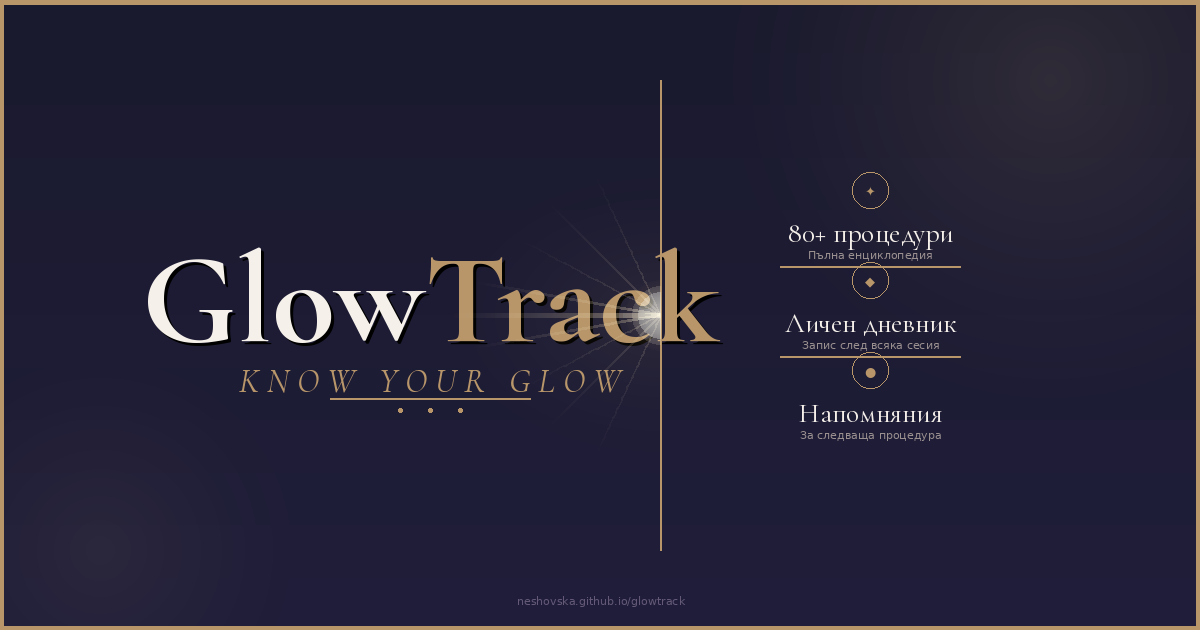
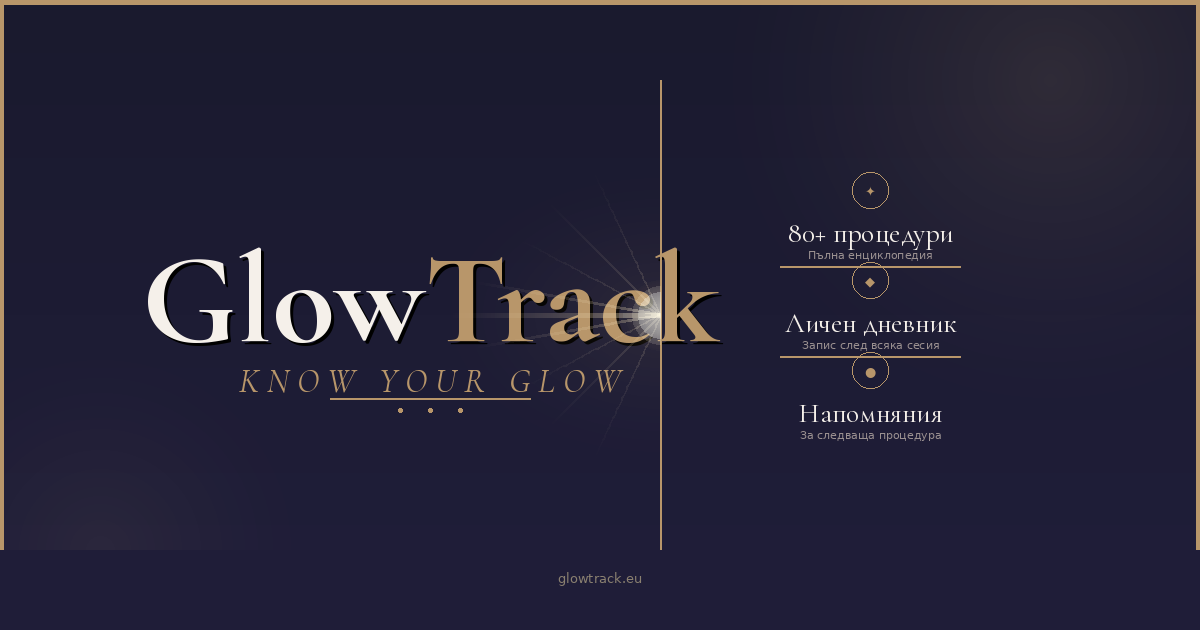
Add files via upload

Changed region(s): [[0.0, 0.8746, 1.0, 1.0], [0.4317, 0.9048, 0.555, 0.9651]]

diff --git a/sw.js b/sw.js
@@ -1,0 +1,26 @@
+// GlowTrack Service Worker
+const CACHE = 'glowtrack-v1';
+const ASSETS = ['/', '/index.html', '/manifest.json', '/apple-touch-icon.png', '/icon-192.png', '/icon-512.png'];
+
+self.addEventListener('install', e => {
+  e.waitUntil(
+    caches.open(CACHE).then(c => c.addAll(ASSETS)).then(() => self.skipWaiting())
+  );
+});
+
+self.addEventListener('activate', e => {
+  e.waitUntil(
+    caches.keys().then(keys => Promise.all(
+      keys.filter(k => k !== CACHE).map(k => caches.delete(k))
+    )).then(() => self.clients.claim())
+  );
+});
+
+self.addEventListener('fetch', e => {
+  if(e.request.method !== 'GET') return;
+  e.respondWith(
+    caches.match(e.request).then(cached => {
+      return cached || fetch(e.request).catch(() => caches.match('/index.html'));
+    })
+  );
+});

diff --git a/index.html b/index.html
@@ -19,7 +19,7 @@
 <meta name="twitter:title" content="GlowTrack · Know your glow.">
 <meta name="twitter:description" content="80+ козметични процедури, личен дневник и напомняния.">
 <link rel="icon" id="favicon-link" type="image/png" href="">
-<link rel="apple-touch-icon" id="apple-icon-link" href="">
+<link rel="apple-touch-icon" id="apple-icon-link" href="apple-touch-icon.png">
 <script>
 (function(){
   var S=180,R=38,cx=90;
@@ -3987,7 +3987,7 @@ if(!navigator.onLine) showToast(t('offline'), 4000);
 // SW must be registered from a dedicated sw.js file on same origin
 if('serviceWorker' in navigator && location.protocol === 'https:'){
   try{
-    navigator.serviceWorker.register('/glowtrack/sw.js',{scope:'/glowtrack/'}).catch(()=>{});
+    navigator.serviceWorker.register('/sw.js',{scope:'/'}).catch(()=>{});
   }catch(e){}
 }
 